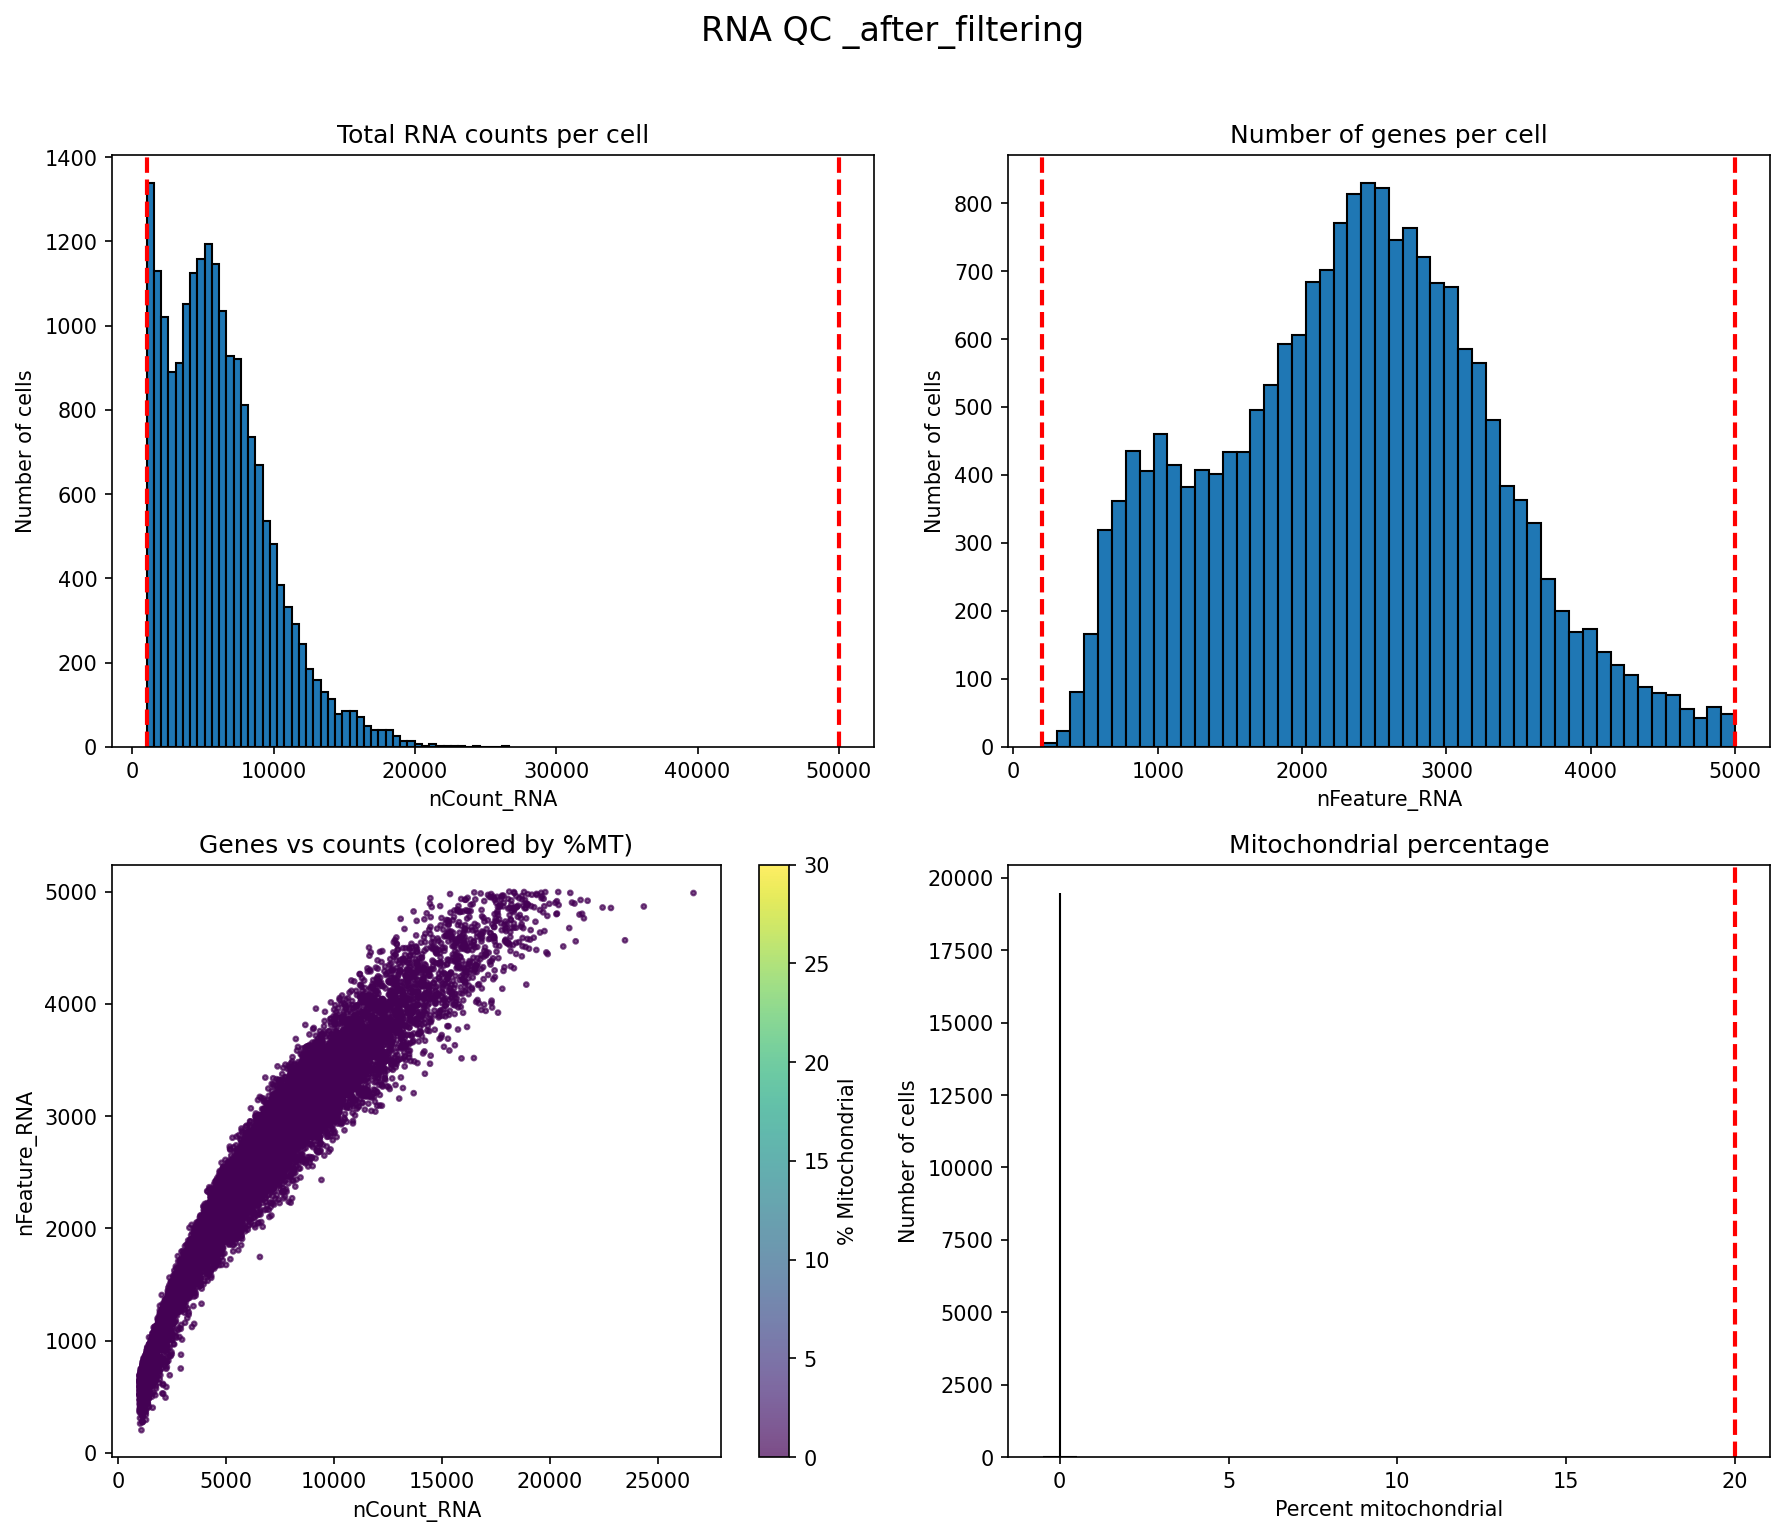
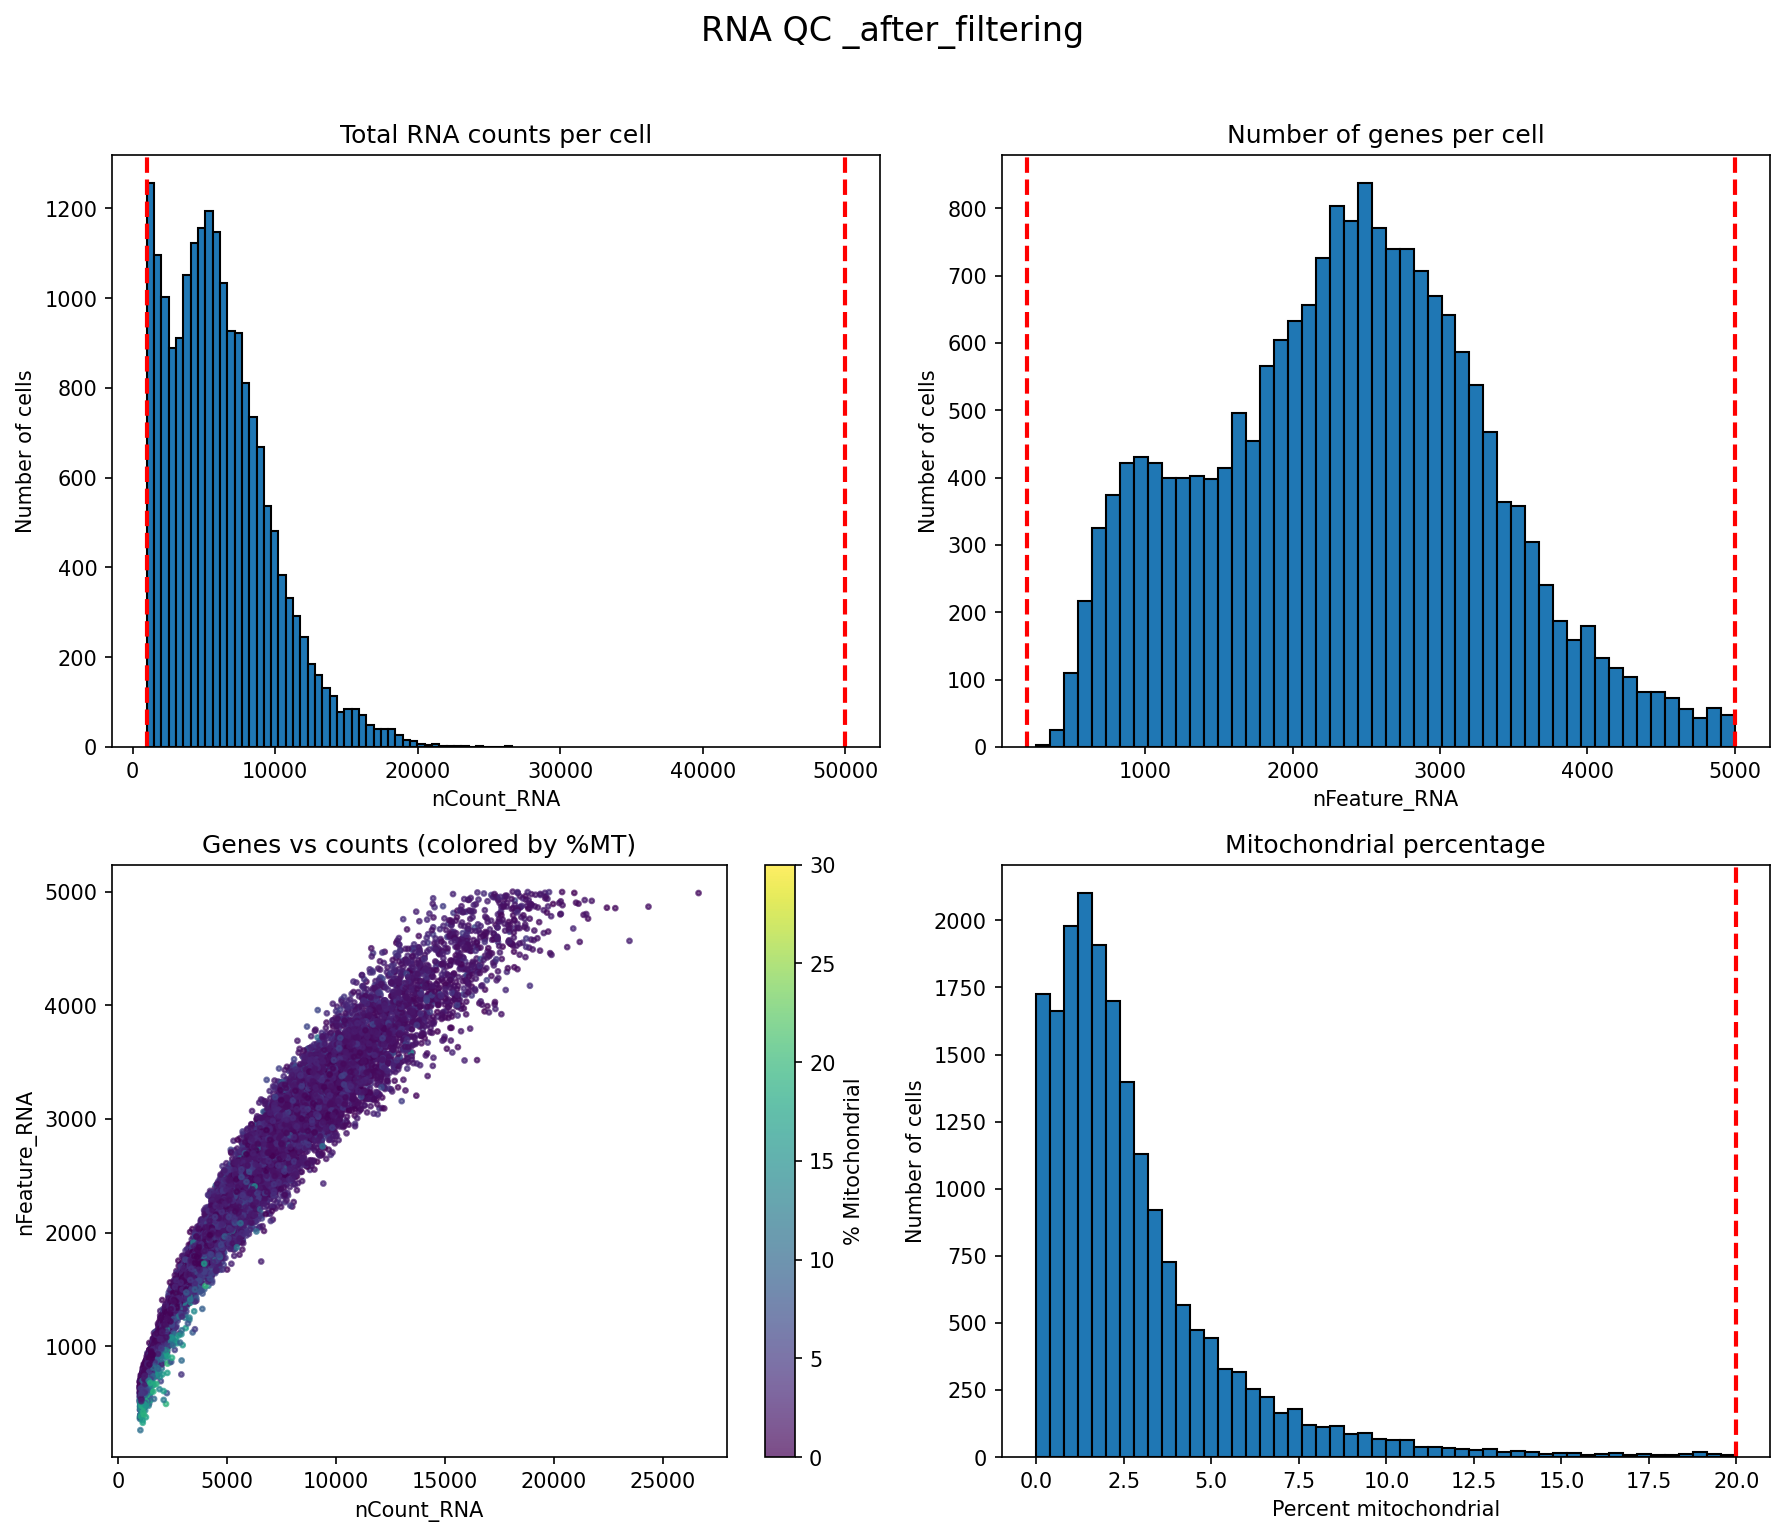
Update filter.py and corresponding plots and stats

diff --git a/filter.py b/filter.py
@@ -42,7 +42,7 @@ def create_rna_plots(rna, prefix, title_suffix=""):
     axes[0, 1].set_title('Number of genes per cell')
     
     # 3. Scatter: nFeature_RNA vs nCount_RNA colored by percent_mt
-    if 'percent_mt' in rna.obs and not rna.obs['percent_mt'].isnull().all():
+    if 'percent_mt' in rna.obs:
         scatter = axes[1, 0].scatter(rna.obs['n_counts'], rna.obs['n_genes'], 
                                     c=rna.obs['percent_mt'], s=5, alpha=0.7, 
                                     cmap='viridis', vmax=30)
@@ -57,17 +57,19 @@ def create_rna_plots(rna, prefix, title_suffix=""):
         axes[1, 0].set_title('Genes vs counts')
     
     # 4. Histogram of percent.mt
-    if 'percent_mt' in rna.obs and not rna.obs['percent_mt'].isnull().all():
+    if 'percent_mt' in rna.obs:
         axes[1, 1].hist(rna.obs['percent_mt'], bins=50, edgecolor='black')
         axes[1, 1].axvline(x=20, color='red', linestyle='--', linewidth=2)
         axes[1, 1].set_xlabel('Percent mitochondrial')
         axes[1, 1].set_ylabel('Number of cells')
         axes[1, 1].set_title('Mitochondrial percentage')
     else:
-        axes[1, 1].scatter(rna.obs['n_counts'], rna.obs['n_genes'], s=5, alpha=0.7)
+        axes[1, 1].hist(rna.obs['n_counts'], bins=50, edgecolor='black')
+        axes[1, 1].axvline(x=1000, color='red', linestyle='--', linewidth=2)
+        axes[1, 1].axvline(x=50000, color='red', linestyle='--', linewidth=2)
         axes[1, 1].set_xlabel('nCount_RNA')
-        axes[1, 1].set_ylabel('nFeature_RNA')
-        axes[1, 1].set_title('Genes vs counts (alternative)')
+        axes[1, 1].set_ylabel('Number of cells')
+        axes[1, 1].set_title('Total RNA counts (alternative)')
     
     plt.tight_layout()
     plt.savefig(f'{prefix}_rna_qc{title_suffix}.png', dpi=150, bbox_inches='tight')
@@ -94,7 +96,7 @@ def create_atac_plots(atac, prefix, title_suffix=""):
     axes[0, 1].set_title('Number of peaks per cell')
     
     # 3. Scatter: nFeature_ATAC vs nCount_ATAC
-    if 'tss_enrichment' in atac.obs and not atac.obs['tss_enrichment'].isnull().all():
+    if 'tss_enrichment' in atac.obs:
         scatter = axes[1, 0].scatter(atac.obs['n_counts'], atac.obs['n_peaks'], 
                                     c=atac.obs['tss_enrichment'], s=5, alpha=0.7, 
                                     cmap='plasma', vmax=0.2)
@@ -109,17 +111,18 @@ def create_atac_plots(atac, prefix, title_suffix=""):
         axes[1, 0].set_title('Peaks vs counts')
     
     # 4. Histogram of TSS enrichment
-    if 'tss_enrichment' in atac.obs and not atac.obs['tss_enrichment'].isnull().all():
+    if 'tss_enrichment' in atac.obs:
         axes[1, 1].hist(atac.obs['tss_enrichment'], bins=50, edgecolor='black')
         axes[1, 1].axvline(x=0.1, color='red', linestyle='--', linewidth=2)
         axes[1, 1].set_xlabel('TSS enrichment')
         axes[1, 1].set_ylabel('Number of cells')
         axes[1, 1].set_title('TSS enrichment score')
     else:
-        axes[1, 1].scatter(atac.obs['n_counts'], atac.obs['n_peaks'], s=5, alpha=0.7)
-        axes[1, 1].set_xlabel('nCount_ATAC')
-        axes[1, 1].set_ylabel('nFeature_ATAC')
-        axes[1, 1].set_title('Peaks vs counts (alternative)')
+        axes[1, 1].hist(atac.obs['n_peaks'], bins=50, edgecolor='black')
+        axes[1, 1].axvline(x=500, color='red', linestyle='--', linewidth=2)
+        axes[1, 1].set_xlabel('nFeature_ATAC')
+        axes[1, 1].set_ylabel('Number of cells')
+        axes[1, 1].set_title('Number of peaks per cell (alternative)')
     
     plt.tight_layout()
     plt.savefig(f'{prefix}_atac_qc{title_suffix}.png', dpi=150, bbox_inches='tight')
@@ -152,16 +155,32 @@ def main():
         
         # Calculate mitochondrial percentage
         mt_genes = pd.Series(False, index=rna.var.index)
-        for col in rna.var.columns:
-            if rna.var[col].dtype == object:
-                col_data = rna.var[col].astype(str)
-                mt_genes = mt_genes | col_data.str.contains('^MT-|^mt-|^Mt-', na=False)
         
-        has_mt = mt_genes.sum() > 0
-        if has_mt:
-            mt_counts = rna[:, mt_genes].X.sum(axis=1).A1 if hasattr(rna[:, mt_genes].X, 'A1') else rna[:, mt_genes].X.sum(axis=1)
+        # Check var_names directly since that's where they are
+        var_names_str = pd.Series(rna.var_names.astype(str))
+        mt_genes = var_names_str.str.contains('^mt-', case=False, na=False)
+        
+        if mt_genes.sum() > 0:
+            mt_gene_names = list(rna.var_names[mt_genes])
+            print(f"Found {mt_genes.sum()} MT genes in var_names")
+            print(f"MT gene examples: {mt_gene_names[:10]}")
+            
+            # Extract MT counts - FIXED: ensure it's 1D array
+            mt_data = rna[:, mt_genes].X
+            if hasattr(mt_data, 'A1'):
+                mt_counts = mt_data.sum(axis=1).A1
+            else:
+                mt_counts = mt_data.sum(axis=1)
+                if hasattr(mt_counts, 'A1'):
+                    mt_counts = mt_counts.A1
+                elif hasattr(mt_counts, 'toarray'):
+                    mt_counts = mt_counts.toarray().flatten()
+                else:
+                    mt_counts = np.array(mt_counts).flatten()
+            
+            # Calculate percentage
             rna.obs['percent_mt'] = 100 * mt_counts / (rna.obs['n_counts'].values + 1e-6)
-            print(f"Found {mt_genes.sum()} mitochondrial genes")
+            print(f"MT percentage range: {rna.obs['percent_mt'].min():.2f}% - {rna.obs['percent_mt'].max():.2f}%")
         else:
             rna.obs['percent_mt'] = 0
             print("Warning: No mitochondrial genes found")
@@ -177,11 +196,9 @@ def main():
             (rna.obs['n_counts'] >= 1000) & 
             (rna.obs['n_counts'] <= 50000) &
             (rna.obs['n_genes'] >= 200) &
-            (rna.obs['n_genes'] <= 5000)
+            (rna.obs['n_genes'] <= 5000) &
+            (rna.obs['percent_mt'] <= 20)
         )
-        
-        if has_mt:
-            mask = mask & (rna.obs['percent_mt'] <= 20)
         
         rna_filtered = rna[mask, :].copy()
         print(f"RNA cells after filtering: {rna_filtered.n_obs}")
@@ -207,7 +224,6 @@ def main():
         atac.obs['n_peaks'] = (atac.X > 0).sum(axis=1).A1 if hasattr(atac.X, 'A1') else (atac.X > 0).sum(axis=1)
         
         # Calculate TSS enrichment if possible
-        has_tss = False
         atac.obs['tss_enrichment'] = 0  # Default
         
         # Look for TSS annotation in var columns
@@ -216,15 +232,24 @@ def main():
                 col_data = atac.var[col].astype(str)
                 tss_mask = col_data.str.contains('TSS|promoter|start', case=False, na=False)
                 if tss_mask.sum() > 0:
-                    tss_counts = atac[:, tss_mask].X.sum(axis=1).A1 if hasattr(atac[:, tss_mask].X, 'A1') else atac[:, tss_mask].X.sum(axis=1)
+                    tss_data = atac[:, tss_mask].X
+                    if hasattr(tss_data, 'A1'):
+                        tss_counts = tss_data.sum(axis=1).A1
+                    else:
+                        tss_counts = tss_data.sum(axis=1)
+                        if hasattr(tss_counts, 'A1'):
+                            tss_counts = tss_counts.A1
+                        elif hasattr(tss_counts, 'toarray'):
+                            tss_counts = tss_counts.toarray().flatten()
+                        else:
+                            tss_counts = np.array(tss_counts).flatten()
+                    
                     total_counts = atac.obs['n_counts'].values
                     atac.obs['tss_enrichment'] = tss_counts / (total_counts + 1e-6)
-                    has_tss = True
                     print(f"Found {tss_mask.sum()} TSS peaks in column '{col}'")
+                    if atac.obs['tss_enrichment'].max() > 0:
+                        print(f"TSS enrichment range: {atac.obs['tss_enrichment'].min():.4f} - {atac.obs['tss_enrichment'].max():.4f}")
                     break
-        
-        if not has_tss:
-            print("Warning: No TSS annotation found")
         
         # Create BEFORE filtering plots
         create_atac_plots(atac, base_prefix, "_before_filtering")
@@ -239,7 +264,7 @@ def main():
             (atac.obs['n_peaks'] >= 500)
         )
         
-        if has_tss:
+        if atac.obs['tss_enrichment'].max() > 0:
             mask = mask & (atac.obs['tss_enrichment'] >= 0.1)
             print("Applied TSS enrichment filter (≥0.1)")
         

diff --git a/README.md b/README.md
@@ -16,13 +16,25 @@ It’s conceptually similar to **Seurat + Signac** in R 🖥, allowing integr
 
 # Before and after filtering 
 
-![rna](neurog2_rna_qc_before_filtering.png?v=1)
-![atac](neurog2_atac_qc_before_filtering.png?v=1)
+![rna](neurog2_rna_qc_before_filtering.png?v=2)
+![atac](neurog2_atac_qc_before_filtering.png?v=2)
 
 # After Filtering 
 
-![rna](neurog2_rna_qc_after_filtering.png?v=1)
-![atac](neurog2_atac_qc_after_filtering.png?v=1)
+![rna](neurog2_rna_qc_after_filtering.png?v=2)
+![atac](neurog2_atac_qc_after_filtering.png?v=2)
+
+### Stats
+
+| Modality | Metric | Before Filtering | After Filtering | Notes |
+|--------|--------|------------------|-----------------|-------|
+| **RNA** | Cells | 22,105 | 19,340 | Initial cell filtering |
+| **RNA** | Cells (final aligned) | 22,105 | 18,380 | 83.1% retained |
+| **RNA** | Genes | 32,285 | 21,679 | min_cells = 10 |
+| **ATAC** | Cells | 22,105 | 21,097 | Initial cell filtering |
+| **ATAC** | Cells (final aligned) | 22,105 | 18,380 | 83.1% retained |
+| **ATAC** | Peaks | 447,355 | 447,228 | min_cells = 10 |
+
 
 #### UMAP 
 
